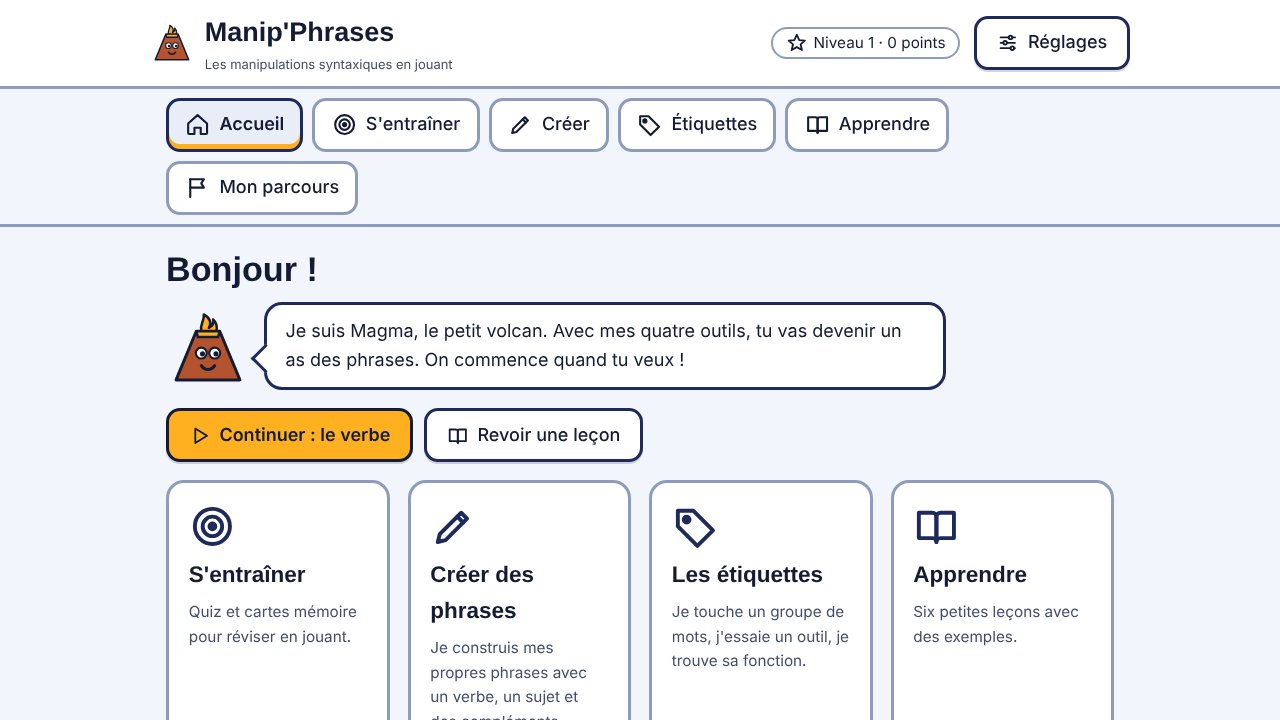
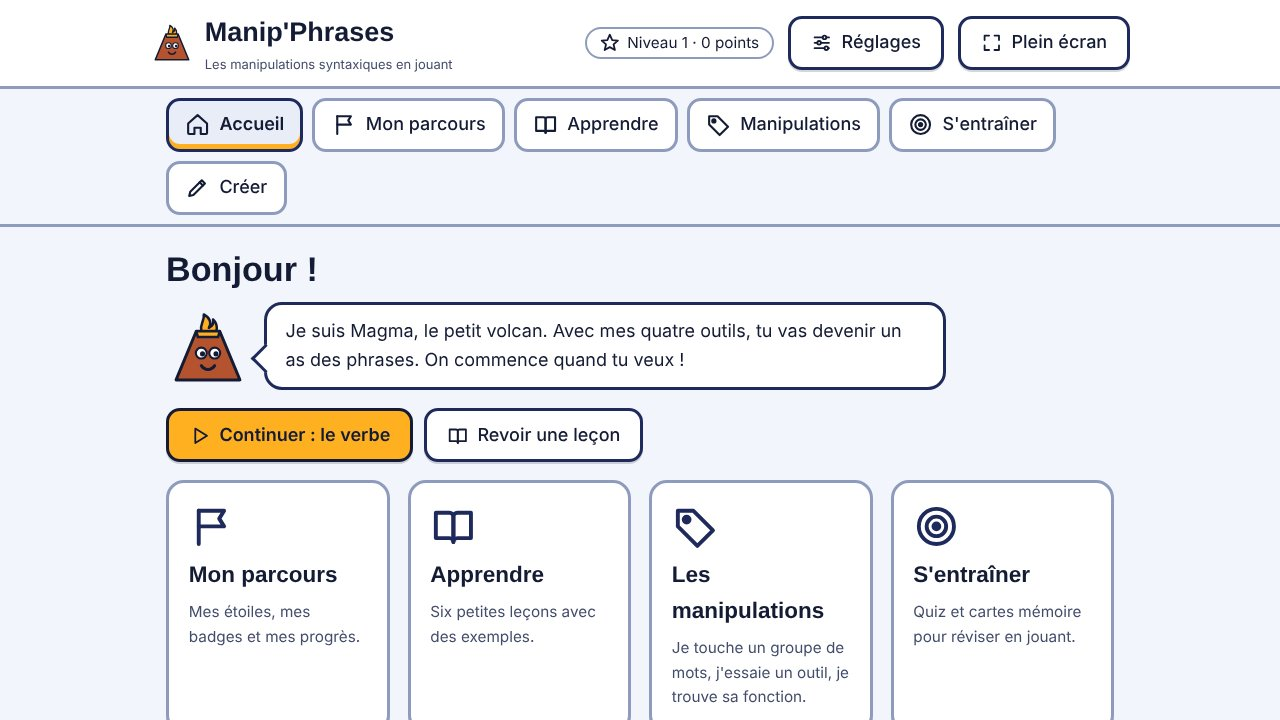
Espace étudiants PE : rubrique Outils (carte verte) regroupant Manip'Phrases, vignette à jour
Claude-Session: https://claude.ai/code/session_01UKvWXNvB56PFdNeDpfnbsX

diff --git a/index.html b/index.html
@@ -50,7 +50,7 @@
 <a class="door" href="communaute.html" style="--c:var(--violet)"><h3>Je veux rejoindre la communauté</h3><p>Le groupe Facebook, l'association, les groupes de travail et le magazine.</p><span>Découvrir le collectif</span></a>
 <a class="door" href="etudiants.html" style="--c:var(--yellow)"><h3>Je suis étudiant PE</h3><p>Les applications de préparation au CRPE EPS, de la L1 au M2.</p><span>Ouvrir mon espace</span></a>
 </div></div></section>
-<section class="serre"><div class="wrap"><div class="head"><h2>Nouveautés</h2></div><ul class="nouv" tabindex="0" aria-label="Nouveautés (faire défiler pour voir les plus anciennes)"><li><span class="quand">22 novembre 2026</span><a href="manip-phrases.html">Manip'Phrases : les quiz par compétence posent maintenant des questions adaptées (forme négative avec ne...pas, c'est...qui, « est-ce un COD ? »...) ; l'application peut aussi s'ouvrir seule, sans les menus du site.</a></li><li><span class="quand">22 novembre 2026</span><a href="manip-phrases.html">Manip'Phrases : bouton plein écran, navigation réorganisée (Mon parcours, Apprendre, Manipulations, S'entraîner, Créer) et l'espace « Étiquettes » devient « Manipulations ».</a></li><li><span class="quand">22 novembre 2026</span><a href="manip-phrases.html">Manip'Phrases : nouvel espace enseignant pour suivre l'évolution des élèves, pictogrammes d'aide (CUA), choix de la voix de lecture dans les réglages, et les étiquettes ne donnent plus la fonction avant la réponse de l'élève.</a></li><li><span class="quand">22 novembre 2026</span><a href="manip-phrases.html">Nouvelle application Manip'Phrases pour les élèves de CM2 : quiz, cartes mémoire, création de phrases, étiquettes à manipuler, leçons et parcours de suivi, pensés pour l'accessibilité.</a></li><li><span class="quand">21 novembre 2026</span><a href="etudiants.html">Applications L3, M2, CRPE L3 EPS et CRPE M2 EPS : quiz révisés (propositions plus plausibles, questions plus exigeantes) ; les quiz « Vidéos » et « Sujets et annales » sont retirés, ainsi que les cartes en doublon du quiz « Développement ».</a></li><li><span class="quand">21 novembre 2026</span><a href="crpe-eps.html">CRPE L3 EPS et CRPE M2 EPS : reprenez en un clic votre historique de l'application L3 ou M2 (même appareil), ou restaurez-en une sauvegarde (fichier ou code). L'ancienne application et son historique restent intacts.</a></li><li><span class="quand">21 novembre 2026</span><a href="crpe-l3-eps.html">Nouvelle application CRPE L3 EPS dans l'espace CRPE EPS : 100 % préparation du concours bac+3, avec les relances du jury une par une, une grille de l'oral à quatre niveaux, un second essai sur une question du même type et un mini-cas de positionnement.</a></li><li><span class="quand">21 novembre 2026</span><a href="etudiants.html">Applications M2 et CRPE M2 EPS : quand plusieurs critères sont à égalité au niveau le plus bas, aucun n'est choisi à votre place pour le prochain oral.</a></li><li><span class="quand">21 novembre 2026</span><a href="etudiants.html">Applications M2 et CRPE M2 EPS : le bilan de l'oral blanc montre, pour chaque volet, la répartition des niveaux et les critères fragiles à travailler en priorité ; vous pouvez justifier le critère choisi pour le prochain oral.</a></li><li><span class="quand">21 novembre 2026</span><a href="m2.html">Application M2 : relances du jury tirées une par une après l'exposé, grille de l'oral à quatre niveaux, second essai sur un sujet parallèle, « Observer avant d'agir », « Améliorer une séance », mini-cas de positionnement et flashcards « Essentiel pour l'oral ». Vos TD et votre historique sont conservés.</a></li><li><span class="quand">21 novembre 2026</span><a href="crpe-m2-eps.html">CRPE M2 EPS : grille de l'oral revue (un critère à la fois, communication orale évaluée sur l'exposé et l'entretien, bilan affiché une fois les critères renseignés, objectif du prochain oral relié à un critère).</a></li><li><span class="quand">21 novembre 2026</span><a href="crpe-eps.html">Nouvel espace CRPE EPS : l'application CRPE M2 EPS, 100 % préparation du concours (relances du jury une par une, grille à quatre niveaux, second essai sur un sujet parallèle). CRPE L3 EPS arrive bientôt.</a></li><li><span class="quand">21 novembre 2026</span><a href="etudiants.html">Toutes les applications : sur la page Programmes, les boutons « Maternelle 2026 » et « Élémentaire 2026 » ont une forme et un fond légèrement différents pour se distinguer des autres.</a></li><li><span class="quand">21 novembre 2026</span><a href="etudiants.html">Toutes les applications : un volet que vous repliez (par exemple « Les points du programme » sur la page Programmes) reste replié quand vous changez de page ou revenez plus tard.</a></li><li><span class="quand">21 novembre 2026</span><a href="etudiants.html">Application M2 : sur la page « Fiches APSA », la présentation « Pas de liste d'APSA au bac+5 à Montpellier » est repliable (ouverte par défaut, votre choix est mémorisé).</a></li>
+<section class="serre"><div class="wrap"><div class="head"><h2>Nouveautés</h2></div><ul class="nouv" tabindex="0" aria-label="Nouveautés (faire défiler pour voir les plus anciennes)"><li><span class="quand">22 novembre 2026</span><a href="outils-etudiants.html">Espace étudiants PE : nouvelle rubrique « Outils », qui regroupe Manip'Phrases (CM2), l'application d'entraînement aux manipulations syntaxiques.</a></li><li><span class="quand">22 novembre 2026</span><a href="manip-phrases.html">Manip'Phrases : les quiz par compétence posent maintenant des questions adaptées (forme négative avec ne...pas, c'est...qui, « est-ce un COD ? »...) ; l'application peut aussi s'ouvrir seule, sans les menus du site.</a></li><li><span class="quand">22 novembre 2026</span><a href="manip-phrases.html">Manip'Phrases : bouton plein écran, navigation réorganisée (Mon parcours, Apprendre, Manipulations, S'entraîner, Créer) et l'espace « Étiquettes » devient « Manipulations ».</a></li><li><span class="quand">22 novembre 2026</span><a href="manip-phrases.html">Manip'Phrases : nouvel espace enseignant pour suivre l'évolution des élèves, pictogrammes d'aide (CUA), choix de la voix de lecture dans les réglages, et les étiquettes ne donnent plus la fonction avant la réponse de l'élève.</a></li><li><span class="quand">22 novembre 2026</span><a href="manip-phrases.html">Nouvelle application Manip'Phrases pour les élèves de CM2 : quiz, cartes mémoire, création de phrases, étiquettes à manipuler, leçons et parcours de suivi, pensés pour l'accessibilité.</a></li><li><span class="quand">21 novembre 2026</span><a href="etudiants.html">Applications L3, M2, CRPE L3 EPS et CRPE M2 EPS : quiz révisés (propositions plus plausibles, questions plus exigeantes) ; les quiz « Vidéos » et « Sujets et annales » sont retirés, ainsi que les cartes en doublon du quiz « Développement ».</a></li><li><span class="quand">21 novembre 2026</span><a href="crpe-eps.html">CRPE L3 EPS et CRPE M2 EPS : reprenez en un clic votre historique de l'application L3 ou M2 (même appareil), ou restaurez-en une sauvegarde (fichier ou code). L'ancienne application et son historique restent intacts.</a></li><li><span class="quand">21 novembre 2026</span><a href="crpe-l3-eps.html">Nouvelle application CRPE L3 EPS dans l'espace CRPE EPS : 100 % préparation du concours bac+3, avec les relances du jury une par une, une grille de l'oral à quatre niveaux, un second essai sur une question du même type et un mini-cas de positionnement.</a></li><li><span class="quand">21 novembre 2026</span><a href="etudiants.html">Applications M2 et CRPE M2 EPS : quand plusieurs critères sont à égalité au niveau le plus bas, aucun n'est choisi à votre place pour le prochain oral.</a></li><li><span class="quand">21 novembre 2026</span><a href="etudiants.html">Applications M2 et CRPE M2 EPS : le bilan de l'oral blanc montre, pour chaque volet, la répartition des niveaux et les critères fragiles à travailler en priorité ; vous pouvez justifier le critère choisi pour le prochain oral.</a></li><li><span class="quand">21 novembre 2026</span><a href="m2.html">Application M2 : relances du jury tirées une par une après l'exposé, grille de l'oral à quatre niveaux, second essai sur un sujet parallèle, « Observer avant d'agir », « Améliorer une séance », mini-cas de positionnement et flashcards « Essentiel pour l'oral ». Vos TD et votre historique sont conservés.</a></li><li><span class="quand">21 novembre 2026</span><a href="crpe-m2-eps.html">CRPE M2 EPS : grille de l'oral revue (un critère à la fois, communication orale évaluée sur l'exposé et l'entretien, bilan affiché une fois les critères renseignés, objectif du prochain oral relié à un critère).</a></li><li><span class="quand">21 novembre 2026</span><a href="crpe-eps.html">Nouvel espace CRPE EPS : l'application CRPE M2 EPS, 100 % préparation du concours (relances du jury une par une, grille à quatre niveaux, second essai sur un sujet parallèle). CRPE L3 EPS arrive bientôt.</a></li><li><span class="quand">21 novembre 2026</span><a href="etudiants.html">Toutes les applications : sur la page Programmes, les boutons « Maternelle 2026 » et « Élémentaire 2026 » ont une forme et un fond légèrement différents pour se distinguer des autres.</a></li><li><span class="quand">21 novembre 2026</span><a href="etudiants.html">Toutes les applications : un volet que vous repliez (par exemple « Les points du programme » sur la page Programmes) reste replié quand vous changez de page ou revenez plus tard.</a></li><li><span class="quand">21 novembre 2026</span><a href="etudiants.html">Application M2 : sur la page « Fiches APSA », la présentation « Pas de liste d'APSA au bac+5 à Montpellier » est repliable (ouverte par défaut, votre choix est mémorisé).</a></li>
 <li><span class="quand">21 novembre 2026</span><a href="etudiants.html">Applications : page « Textes officiels », fiche « Savoir rouler à vélo » avec un cadre dépliable « Les trois blocs en un coup d'œil » (milieu, durée et compétences de chaque bloc, attestation).</a></li>
 <li><span class="quand">21 novembre 2026</span><a href="etudiants.html">Applications : page « Textes officiels », fiche « Le savoir-nager » avec un cadre dépliable « Les deux tests en un coup d'œil » (Pass-nautique et ASNS : épreuves, parcours de 50 m, conditions de passage).</a></li>
 <li><span class="quand">21 novembre 2026</span><a href="etudiants.html">Applications : calculateur d'encadrement plus compact (listes déroulantes), schéma des taux replié par défaut, page « Programmes » avec chiffres clés et liste repliable.</a></li>

diff --git a/manip-phrases.html b/manip-phrases.html
@@ -16,7 +16,7 @@
 <link href="https://fonts.googleapis.com/css2?family=Archivo:wdth,wght@100..125,500..900&family=Atkinson+Hyperlegible:ital,wght@0,400;0,700;1,400&display=swap" rel="stylesheet">
 <link rel="stylesheet" href="assets/site.css?v=20261120b">
 </head>
-<body style="--c:var(--blue)">
+<body style="--c:var(--green)">
 <a class="evitement" href="#contenu">Aller au contenu</a>
 <header class="top"><div class="wrap">
 <a class="brand" href="index.html"><img class="logo-clair" src="uploads/1/2/4/9/124918405/dark-logo-transparent-background_orig.png" alt="" height="40"><img class="logo-sombre" src="uploads/1/2/4/9/124918405/white-logo-transparent-background_1_orig.png" alt="" height="40"><span>EPS Mania</span></a>
@@ -25,7 +25,7 @@
 <button class="theme-btn" type="button" aria-label="Passer en mode sombre" title="Passer en mode sombre"><svg class="i-soleil" viewBox="0 0 24 24" aria-hidden="true"><path d="M21 12.8A9 9 0 1 1 11.2 3a7 7 0 0 0 9.8 9.8z"/></svg><svg class="i-lune" viewBox="0 0 24 24" aria-hidden="true"><circle cx="12" cy="12" r="4"/><path d="M12 2v2M12 20v2M4.9 4.9l1.4 1.4M17.7 17.7l1.4 1.4M2 12h2M20 12h2M4.9 19.1l1.4-1.4M17.7 6.3l1.4-1.4"/></svg></button>
 </div><div class="track fin" aria-hidden="true"></div></header>
 <main id="contenu">
-<div class="wrap page"><div class="entete"><p class="fil"><a href="etudiants.html">Espace étudiants PE</a></p><h1>Manip'Phrases</h1></div><div class="contenu"><div class="para"><p>Application d'entraînement pour les élèves de CM2 sur les manipulations syntaxiques : effacer, déplacer, remplacer, ajouter. Elle propose un quiz et des cartes mémoire, un espace pour créer des phrases, un espace de manipulations avec des étiquettes, des leçons courtes et un parcours de suivi avec étoiles et badges. Elle est pensée pour l'accessibilité : fonctions repérées par une couleur, une forme et un nom, quatre apparences, taille des lettres réglable, police facilitée, lecture à voix haute, sans chronomètre. Les pictogrammes et la voix de lecture se règlent dans « Réglages ». La progression est enregistrée dans le navigateur de l'élève, et un espace enseignant (lien en bas de l'application) permet de suivre l'évolution de la classe à partir de codes que les élèves transmettent.</p><p><small>Mise à jour : 22 novembre 2026, 10 h 15</small></p></div><div class="embed"><iframe src="assets/manip-phrases.html" title="Manip'Phrases, application pour les élèves de CM2" style="width:100%;height:85vh;min-height:680px;border:0" loading="lazy" allow="fullscreen" allowfullscreen></iframe></div><p><a class="btn ghost small" href="assets/manip-phrases.html">Ouvrir l'application seule, sans les menus du site</a></p>
+<div class="wrap page"><div class="entete"><p class="fil"><a href="etudiants.html">Espace étudiants PE</a> › <a href="outils-etudiants.html">Outils</a></p><h1>Manip'Phrases</h1></div><div class="contenu"><div class="para"><p>Application d'entraînement pour les élèves de CM2 sur les manipulations syntaxiques : effacer, déplacer, remplacer, ajouter. Elle propose un quiz et des cartes mémoire, un espace pour créer des phrases, un espace de manipulations avec des étiquettes, des leçons courtes et un parcours de suivi avec étoiles et badges. Elle est pensée pour l'accessibilité : fonctions repérées par une couleur, une forme et un nom, quatre apparences, taille des lettres réglable, police facilitée, lecture à voix haute, sans chronomètre. Les pictogrammes et la voix de lecture se règlent dans « Réglages ». La progression est enregistrée dans le navigateur de l'élève, et un espace enseignant (lien en bas de l'application) permet de suivre l'évolution de la classe à partir de codes que les élèves transmettent.</p><p><small>Mise à jour : 22 novembre 2026, 10 h 15</small></p></div><div class="embed"><iframe src="assets/manip-phrases.html" title="Manip'Phrases, application pour les élèves de CM2" style="width:100%;height:85vh;min-height:680px;border:0" loading="lazy" allow="fullscreen" allowfullscreen></iframe></div><p><a class="btn ghost small" href="assets/manip-phrases.html">Ouvrir l'application seule, sans les menus du site</a></p>
 </div><section aria-label="Visites et messages" class="vie" data-page="manip-phrases" hidden="" id="vie">
 <p class="vie-compteur"><strong>…</strong> <span class="lib">visites</span> de cette page</p>
 <h2>Laisser un message</h2>
@@ -38,7 +38,7 @@
 </form>
 <p class="vie-vide">Aucun message pour le moment. Soyez le premier !</p>
 <ul class="vie-liste"></ul>
-</section><p class="retour"><a class="btn ghost small" href="etudiants.html">Retour à l'espace étudiants PE</a></p></div>
+</section><p class="retour"><a class="btn ghost small" href="outils-etudiants.html">Retour aux outils</a></p></div>
 </main>
 <footer><div class="wrap">
 <div><a class="brand" href="index.html"><span>EPS Mania</span></a><small>Partager pour mieux enseigner. Un collectif d'enseignants d'EPS depuis 2017.</small></div>

diff --git a/outils-etudiants.html b/outils-etudiants.html
@@ -1,0 +1,52 @@
+<!DOCTYPE html>
+<html lang="fr">
+<head>
+<meta charset="utf-8">
+<meta name="viewport" content="width=device-width, initial-scale=1">
+<title>Outils pour la classe | EPS Mania</title>
+<meta name="description" content="Outils à utiliser avec les élèves en classe, proposés par EPS Mania : Manip'Phrases, pour s'entraîner aux manipulations syntaxiques en CM2.">
+<meta name="theme-color" content="#ffffff">
+<script>try{var t=localStorage.getItem('epsmania-theme');if(t==='dark'||t==='light')document.documentElement.setAttribute('data-theme',t);}catch(e){}</script>
+<link rel="icon" href="/favicon.ico?v=20261112" sizes="any">
+<link rel="icon" type="image/png" sizes="32x32" href="/assets/favicon-32.png?v=20261112">
+<link rel="icon" type="image/png" sizes="192x192" href="/assets/favicon-192.png?v=20261112">
+<link rel="apple-touch-icon" href="/assets/apple-touch-icon.png?v=20261112">
+<link rel="preconnect" href="https://fonts.googleapis.com">
+<link rel="preconnect" href="https://fonts.gstatic.com" crossorigin>
+<link href="https://fonts.googleapis.com/css2?family=Archivo:wdth,wght@100..125,500..900&family=Atkinson+Hyperlegible:ital,wght@0,400;0,700;1,400&display=swap" rel="stylesheet">
+<link rel="stylesheet" href="assets/site.css?v=20261120b">
+</head>
+<body style="--c:var(--green)">
+<a class="evitement" href="#contenu">Aller au contenu</a>
+<header class="top"><div class="wrap">
+<a class="brand" href="index.html"><img class="logo-clair" src="uploads/1/2/4/9/124918405/dark-logo-transparent-background_orig.png" alt="" height="40"><img class="logo-sombre" src="uploads/1/2/4/9/124918405/white-logo-transparent-background_1_orig.png" alt="" height="40"><span>EPS Mania</span></a>
+<nav class="nav" aria-label="Rubriques"><a href="index.html">Accueil</a><a href="communaute.html" style="--c:var(--violet)">La communauté</a><a href="ressources.html" style="--c:var(--blue)">Ressources EPS</a><a href="etudiants.html" style="--c:var(--yellow)">Espace étudiants PE</a><a href="a-propos.html" style="--c:var(--orange)">À propos</a></nav>
+<a class="btn small" href="https://www.facebook.com/groups/epsmania/" target="_blank" rel="noopener">Rejoindre le groupe</a>
+<button class="theme-btn" type="button" aria-label="Passer en mode sombre" title="Passer en mode sombre"><svg class="i-soleil" viewBox="0 0 24 24" aria-hidden="true"><path d="M21 12.8A9 9 0 1 1 11.2 3a7 7 0 0 0 9.8 9.8z"/></svg><svg class="i-lune" viewBox="0 0 24 24" aria-hidden="true"><circle cx="12" cy="12" r="4"/><path d="M12 2v2M12 20v2M4.9 4.9l1.4 1.4M17.7 17.7l1.4 1.4M2 12h2M20 12h2M4.9 19.1l1.4-1.4M17.7 6.3l1.4-1.4"/></svg></button>
+</div><div class="track fin" aria-hidden="true"></div></header>
+<main id="contenu">
+<div class="wrap page"><div class="entete"><p class="fil"><a href="etudiants.html">Espace étudiants PE</a></p><h1>Outils</h1><p class="lead">Des outils à utiliser avec vos élèves en classe. Choisissez un outil.</p></div><div class="cards grandes"><a class="card" href="manip-phrases.html" style="--c:var(--green)"><img alt="" class="vig" loading="lazy" src="assets/vignettes/manip-phrases.jpg"/><h3>Manip'Phrases (CM2)</h3><p>Les manipulations syntaxiques en jouant : quiz, cartes mémoire, manipulations, leçons et parcours de suivi</p></a></div><p class="retour"><a class="btn ghost small" href="etudiants.html">Retour à l'Espace étudiants PE</a></p></div>
+</main>
+<footer><div class="wrap">
+<div><a class="brand" href="index.html"><span>EPS Mania</span></a><small>Partager pour mieux enseigner. Un collectif d'enseignants d'EPS depuis 2017.</small></div>
+<div><h3>Nous suivre</h3><ul>
+<li><a href="https://www.facebook.com/groups/epsmania/" target="_blank" rel="noopener">Groupe Facebook</a></li>
+<li><a href="https://twitter.com/ManiaEps" target="_blank" rel="noopener">X (Twitter)</a></li>
+<li><a href="https://www.youtube.com/channel/UC7hms6Lfoym5Iq1INC4CywA" target="_blank" rel="noopener">YouTube</a></li>
+<li><a href="https://www.linkedin.com/in/christophe-honthaas-%F0%9F%87%AB%F0%9F%87%B7%F0%9F%87%A8%F0%9F%87%A6-3141a9119/" target="_blank" rel="noopener">LinkedIn</a></li>
+</ul></div>
+<div><h3>Le site</h3><ul>
+<li><a href="communaute.html">La communauté</a></li>
+<li><a href="ressources.html">Ressources EPS</a></li>
+<li><a href="etudiants.html">Espace étudiants PE</a></li>
+<li><a href="a-propos.html">À propos</a></li>
+<li><a href="pour-nous-rejoindre.html">Pour nous rejoindre</a></li>
+</ul></div>
+<div><h3>Informations</h3><ul>
+<li><a href="contact.html">Contact</a></li>
+<li><a href="mentions-legales.html">Mentions légales</a></li>
+</ul></div>
+</div></footer>
+<script src="assets/site.js?v=20261120b"></script>
+</body>
+</html>

diff --git a/etudiants.html b/etudiants.html
@@ -40,7 +40,7 @@
 <button class="theme-btn" type="button" aria-label="Passer en mode sombre" title="Passer en mode sombre"><svg class="i-soleil" viewBox="0 0 24 24" aria-hidden="true"><path d="M21 12.8A9 9 0 1 1 11.2 3a7 7 0 0 0 9.8 9.8z"/></svg><svg class="i-lune" viewBox="0 0 24 24" aria-hidden="true"><circle cx="12" cy="12" r="4"/><path d="M12 2v2M12 20v2M4.9 4.9l1.4 1.4M17.7 17.7l1.4 1.4M2 12h2M20 12h2M4.9 19.1l1.4-1.4M17.7 6.3l1.4-1.4"/></svg></button>
 </div><div class="track fin" aria-hidden="true"></div></header>
 <main id="contenu">
-<div class="wrap page"><div class="entete"><h1>Espace étudiants PE</h1><p class="lead">Les applications de préparation au CRPE EPS, du concours en L3 au concours en M2 : quiz, fiches, glossaire, sujets traités et oral blanc. Cet espace s'adresse aux étudiants qui se destinent au professorat des écoles (PE). Choisissez votre niveau.</p></div><div class="cards grandes"><a class="card" href="l1.html"><img alt="" class="vig" loading="lazy" src="assets/vignettes/l1.jpg"/><h3>L1</h3></a><a class="card" href="l2.html"><img alt="" class="vig" loading="lazy" src="assets/vignettes/l2.jpg"/><h3>L2</h3></a><a class="card" href="l3.html"><img alt="" class="vig" loading="lazy" src="assets/vignettes/l3.jpg"/><h3>L3</h3></a><a class="card" href="m1-pefe.html"><img alt="" class="vig" loading="lazy" src="assets/vignettes/m1-pefe.jpg"/><h3>M1 PEFE</h3></a><a class="card" href="m1-m2e.html"><img alt="" class="vig" loading="lazy" src="assets/vignettes/m1-m2e.jpg"/><h3>M1 M2E</h3></a><a class="card" href="m2-m2e.html"><img alt="" class="vig" loading="lazy" src="assets/vignettes/m2-m2e.jpg"/><h3>M2 M2E</h3></a><a class="card" href="m2.html"><img alt="" class="vig" loading="lazy" src="assets/vignettes/m2.jpg"/><h3>M2</h3></a><a class="card" href="crpe-eps.html" style="--c:var(--blue)"><img alt="" class="vig" loading="lazy" src="assets/vignettes/crpe-l3.jpg"/><h3>CRPE EPS</h3></a><a class="card" href="manip-phrases.html" style="--c:var(--blue)"><img alt="" class="vig" loading="lazy" src="assets/vignettes/manip-phrases.jpg"/><h3>Manip'Phrases (CM2)</h3></a></div></div><div class="wrap page vie-bloc"><section aria-label="Visites et messages" class="vie" data-page="etudiants" hidden="" id="vie">
+<div class="wrap page"><div class="entete"><h1>Espace étudiants PE</h1><p class="lead">Les applications de préparation au CRPE EPS, du concours en L3 au concours en M2 : quiz, fiches, glossaire, sujets traités et oral blanc. Cet espace s'adresse aux étudiants qui se destinent au professorat des écoles (PE). Choisissez votre niveau.</p></div><div class="cards grandes"><a class="card" href="l1.html"><img alt="" class="vig" loading="lazy" src="assets/vignettes/l1.jpg"/><h3>L1</h3></a><a class="card" href="l2.html"><img alt="" class="vig" loading="lazy" src="assets/vignettes/l2.jpg"/><h3>L2</h3></a><a class="card" href="l3.html"><img alt="" class="vig" loading="lazy" src="assets/vignettes/l3.jpg"/><h3>L3</h3></a><a class="card" href="m1-pefe.html"><img alt="" class="vig" loading="lazy" src="assets/vignettes/m1-pefe.jpg"/><h3>M1 PEFE</h3></a><a class="card" href="m1-m2e.html"><img alt="" class="vig" loading="lazy" src="assets/vignettes/m1-m2e.jpg"/><h3>M1 M2E</h3></a><a class="card" href="m2-m2e.html"><img alt="" class="vig" loading="lazy" src="assets/vignettes/m2-m2e.jpg"/><h3>M2 M2E</h3></a><a class="card" href="m2.html"><img alt="" class="vig" loading="lazy" src="assets/vignettes/m2.jpg"/><h3>M2</h3></a><a class="card" href="crpe-eps.html" style="--c:var(--blue)"><img alt="" class="vig" loading="lazy" src="assets/vignettes/crpe-l3.jpg"/><h3>CRPE EPS</h3></a><a class="card" href="outils-etudiants.html" style="--c:var(--green)"><div class="vig tuile">Outils</div><h3>Outils</h3></a></div></div><div class="wrap page vie-bloc"><section aria-label="Visites et messages" class="vie" data-page="etudiants" hidden="" id="vie">
 <p class="vie-compteur"><strong>…</strong> <span class="lib">visites</span> de cette page</p>
 <h2>Laisser un message</h2>
 <form class="vie-form" novalidate="">
